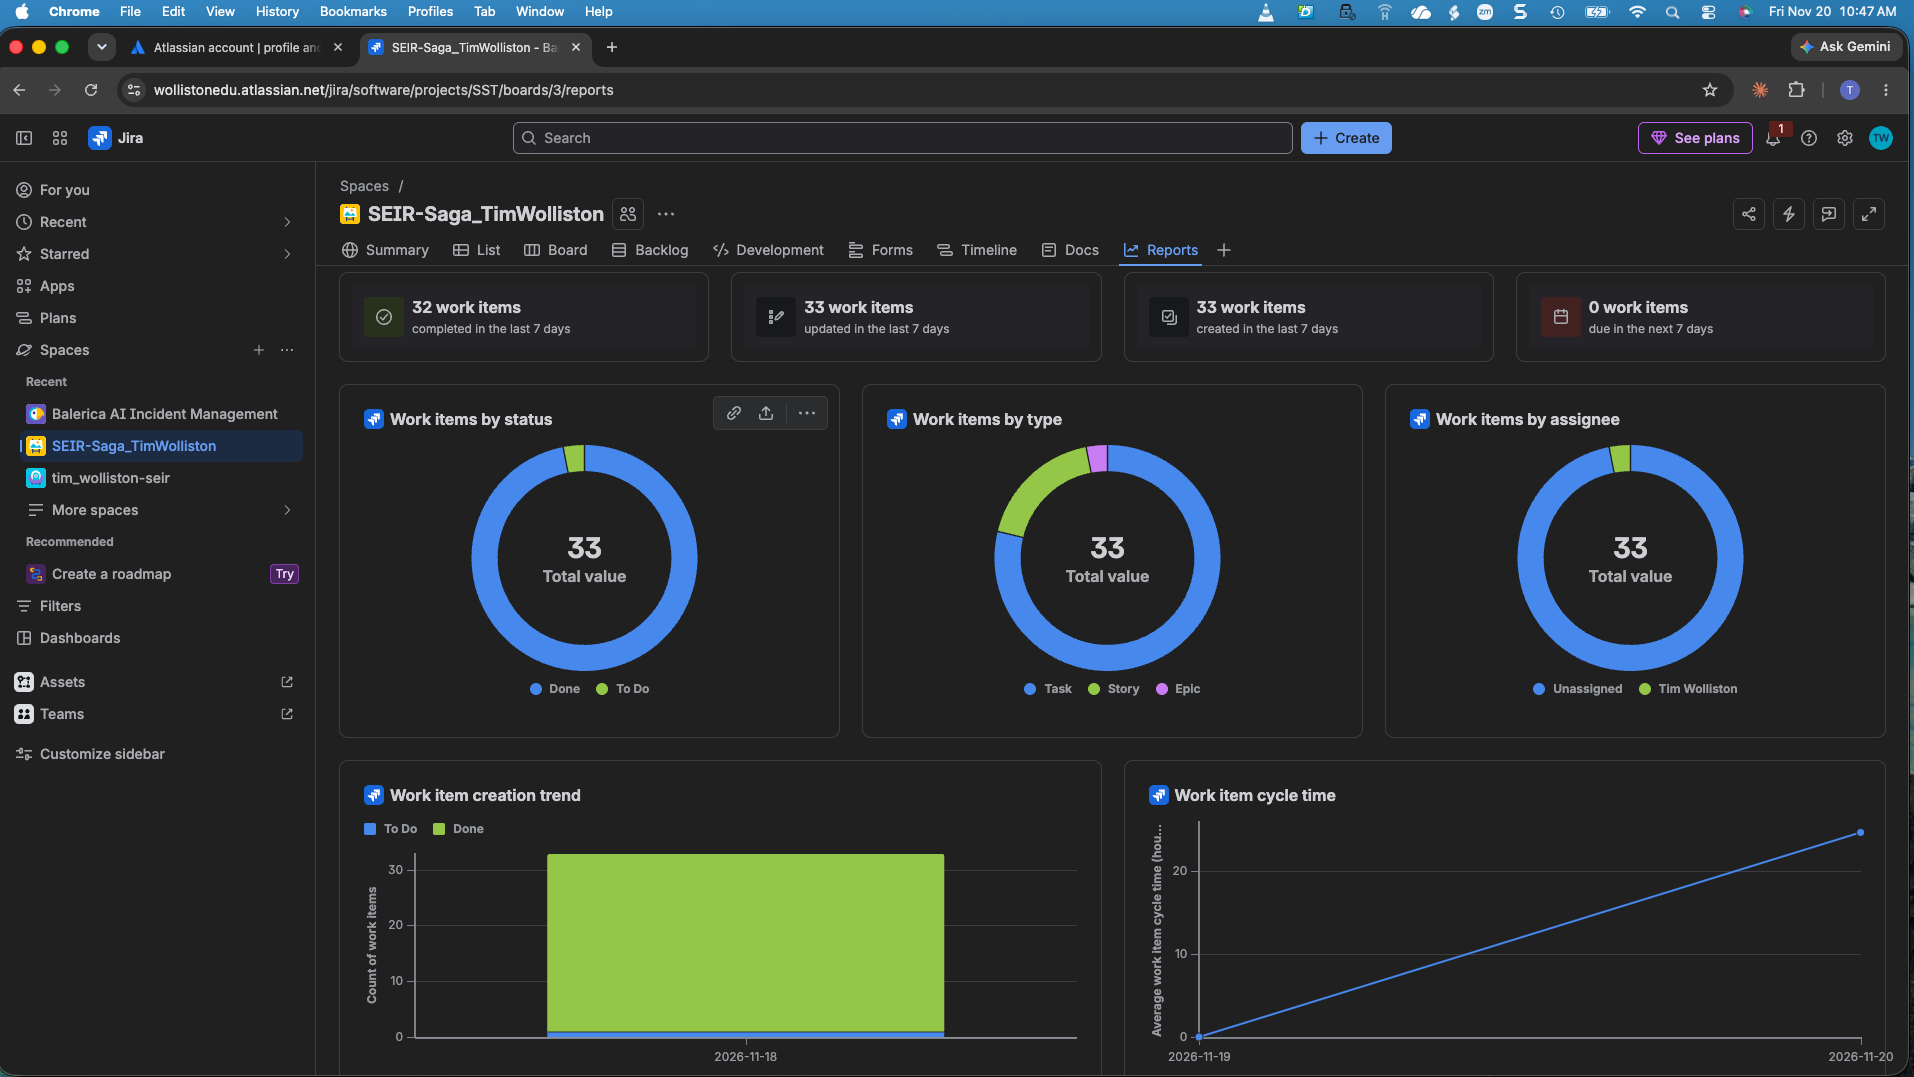
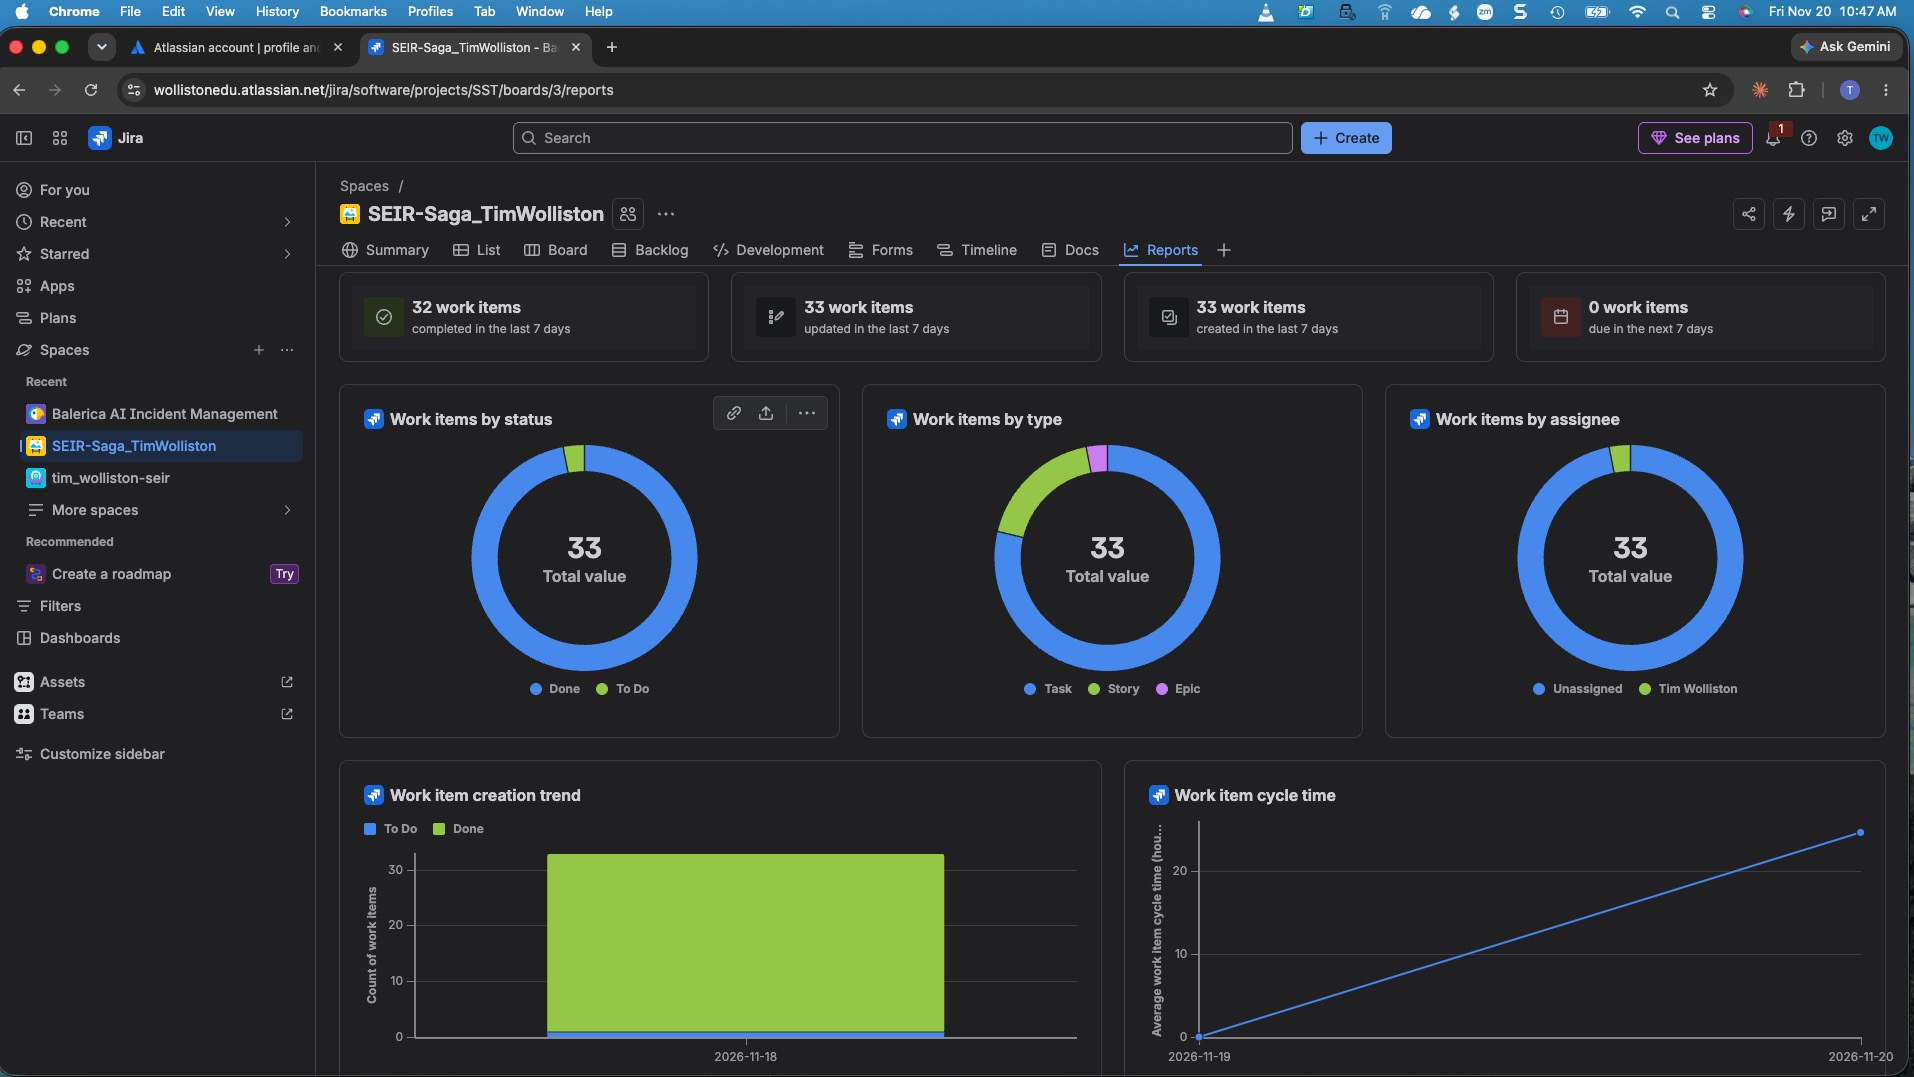
Final homework cleanup: BAM_5.7 marked complete, reading checkbox checked
- BAM_5.7 extra credit table row updated to Yes with screenshot link
- Head First Agile chapters 1-3 reading box checked
- Sprint instructions updated with actual space name and date

diff --git a/module1/lesson3_Jira/homework/lab3.0_wk5_homework.md b/module1/lesson3_Jira/homework/lab3.0_wk5_homework.md
@@ -338,7 +338,7 @@ Your screenshot must show the ID line and both runs returning the **same Jira is
 
 Turn Section 4 into a real sprint.
 
-1. In your `SEIR-Saga_YourNameHere` space, create a sprint named `Day Sprint — YYYY-MM-DD` that lasts **one day**.
+1. In your `SEIR-Saga_TimWolliston` space, create a sprint named `Day Sprint — 2026-11-20` that lasts **one day**.
 2. Move your stories and tasks into it, and **start the sprint** in the morning.
 3. As you actually do each thing during the day, move it to **Done**.
 4. At the end of the day, **complete the sprint**. Anything unfinished goes back to the backlog.
@@ -361,7 +361,7 @@ In `lesson3_notes.md`, answer:
 | BAM_5.4 | Slack alert with clickable Jira link | Tue 11/17, 11:46 PM ET | [`screenshots/BAM_5.4.jpg`](screenshots/BAM_5.4.jpg) | Yes|
 | BAM_5.5 | Jira issue created by `incident.py` | Tue 11/17, 11:46 PM ET | [`screenshots/BAM_5.5.jpg`](screenshots/BAM_5.5.jpg) | Yes |
 | BAM_5.6 | Same incident ID twice → same Jira key | Tue 11/17, 9:59 PM ET | [`screenshots/BAM_5.6.jpg`](screenshots/BAM_5.6.jpg) | Yes |
-| BAM_5.7 | One-day sprint completed; burndown or sprint report | Tue 11/17, 12 PM ET | `screenshots/BAM_5.7.jpg` | No |
+| BAM_5.7 | One-day sprint completed; burndown or sprint report | Tue 11/17, 12 PM ET | [`screenshots/BAM_5.7.jpg`](screenshots/BAM_5.7.jpg) | Yes |
 
 **Screenshot guidance:** Do not expose private keys, passwords, AWS access keys, Jira API tokens, Slack webhook URLs, or other secrets in any screenshot.
 
@@ -380,7 +380,7 @@ In `lesson3_notes.md`, answer:
 &nbsp;
 
 **Required**
-- [ ] I read chapters 1–3 of *Head First Agile*.
+- [x] I read chapters 1–3 of *Head First Agile*.
 - [x] I created a **team-managed Scrum** space named `SEIR-Saga_YourNameHere` (not my BAI project).
 - [x] I turned on **Estimation → Story points** for the space and screenshotted it.
 - [x] I created **1 epic** (`A day in my shoes`), **at least 5 stories**, and **at least 20 tasks**, all with the epic as their Parent.
